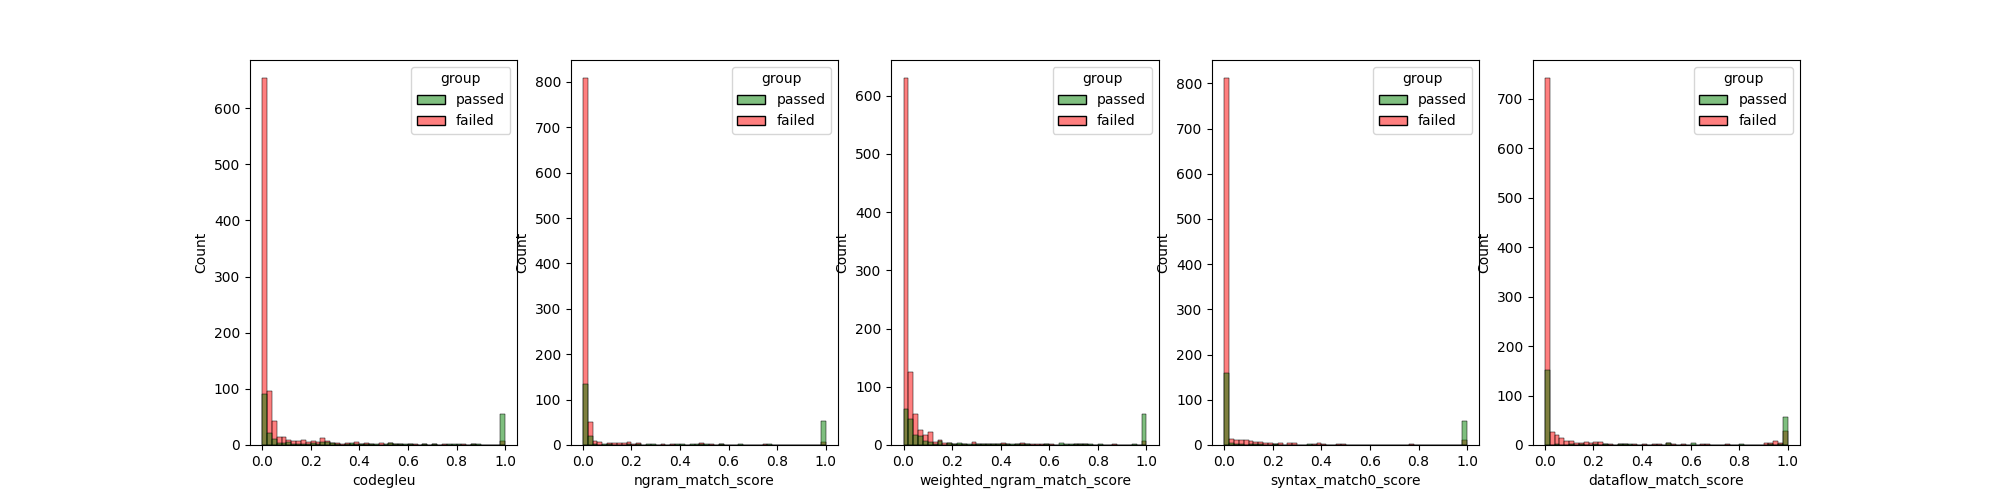
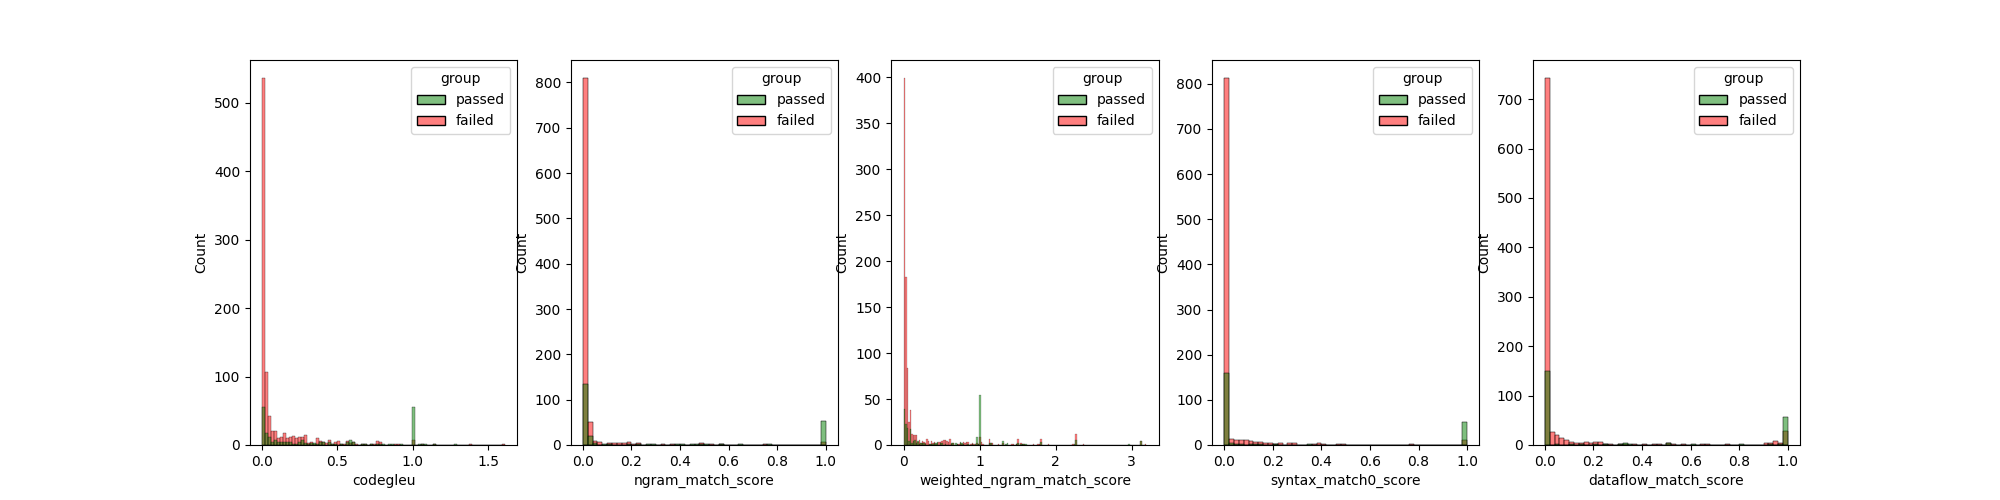
better weights

diff --git a/codegleu/codegleu.py b/codegleu/codegleu.py
@@ -49,7 +49,8 @@ def calc_codegleu(
     with open(keywords_dir / (lang + ".txt"), "r", encoding="utf-8") as f:
         keywords = [x.strip() for x in f.readlines()]
 
-    key_weights: dict[str, float] = {f"key_{key}": 1 for key in keywords} | {"default": 0.2}
+    key_weights: dict[str, float] = {f"key_{key}": 1 for key in keywords} | {"default": 0.05}
+
     n = len(n_weights)
     n_weights = tuple(w / sum(n_weights) for w in n_weights)
     if not intermediates:
@@ -58,11 +59,10 @@ def calc_codegleu(
         sources = [x.strip() for x in sources]
 
         intermediates = {
-            "ngram": ngram_match.corpus_gleu_intermediate(sources, references, hypotheses, lang=lang, tokenizer=tokenizer, n=n),
+            "ngram": ngram_match.corpus_gleu_intermediate(sources, references, hypotheses, lang, tokenizer, n),
             "syntax": syntax_match.corpus_syntax_intermediate(sources, references, hypotheses, lang, tree_sitter_language),
             "dataflow": dataflow_match.corpus_dataflow_intermediate(sources, references, hypotheses, lang, tree_sitter_language),
         }
-
     ngram_match_score, p_n = ngram_match.corpus_gleu_score(intermediates["ngram"], n_weights, {}, penalty[0])
     weighted_ngram_match_score, wp_n = ngram_match.corpus_gleu_score(intermediates["ngram"], n_weights, key_weights, penalty[1])
     syntax_match_score = syntax_match.corpus_syntax_score(intermediates["syntax"], penalty[2])

diff --git a/evaluate.py b/evaluate.py
@@ -279,7 +279,7 @@ def main():
     totalsize = os.path.getsize(conf["scored_loc"])
     processedruns = 0
     processedinstances = 0
-    mem = min(max(64_000_000, int(totalsize / 20)), 128_000_000)
+    mem = min(max(256_000_000, int(totalsize / 10)), 512_000_000)
     print(f"Allocating {mem} bytes of buffersize")
     with open(conf["scored_loc"], "r") as fp:
         with tqdm.tqdm(total=1) as pbar:
@@ -291,7 +291,7 @@ def main():
                     buffer[index] = json.loads(line)
                     buffer[index]["resolved"] = buffer[index]["instance_id"] in results["resolved"]
                 with Pool(5) as pool:
-                    rets = pool.map(recalc, buffer, chunksize=10)
+                    rets = pool.map(recalc, buffer, chunksize=5)
                 del buffer
                 scored += rets
                 processedinstances += len(rets)
